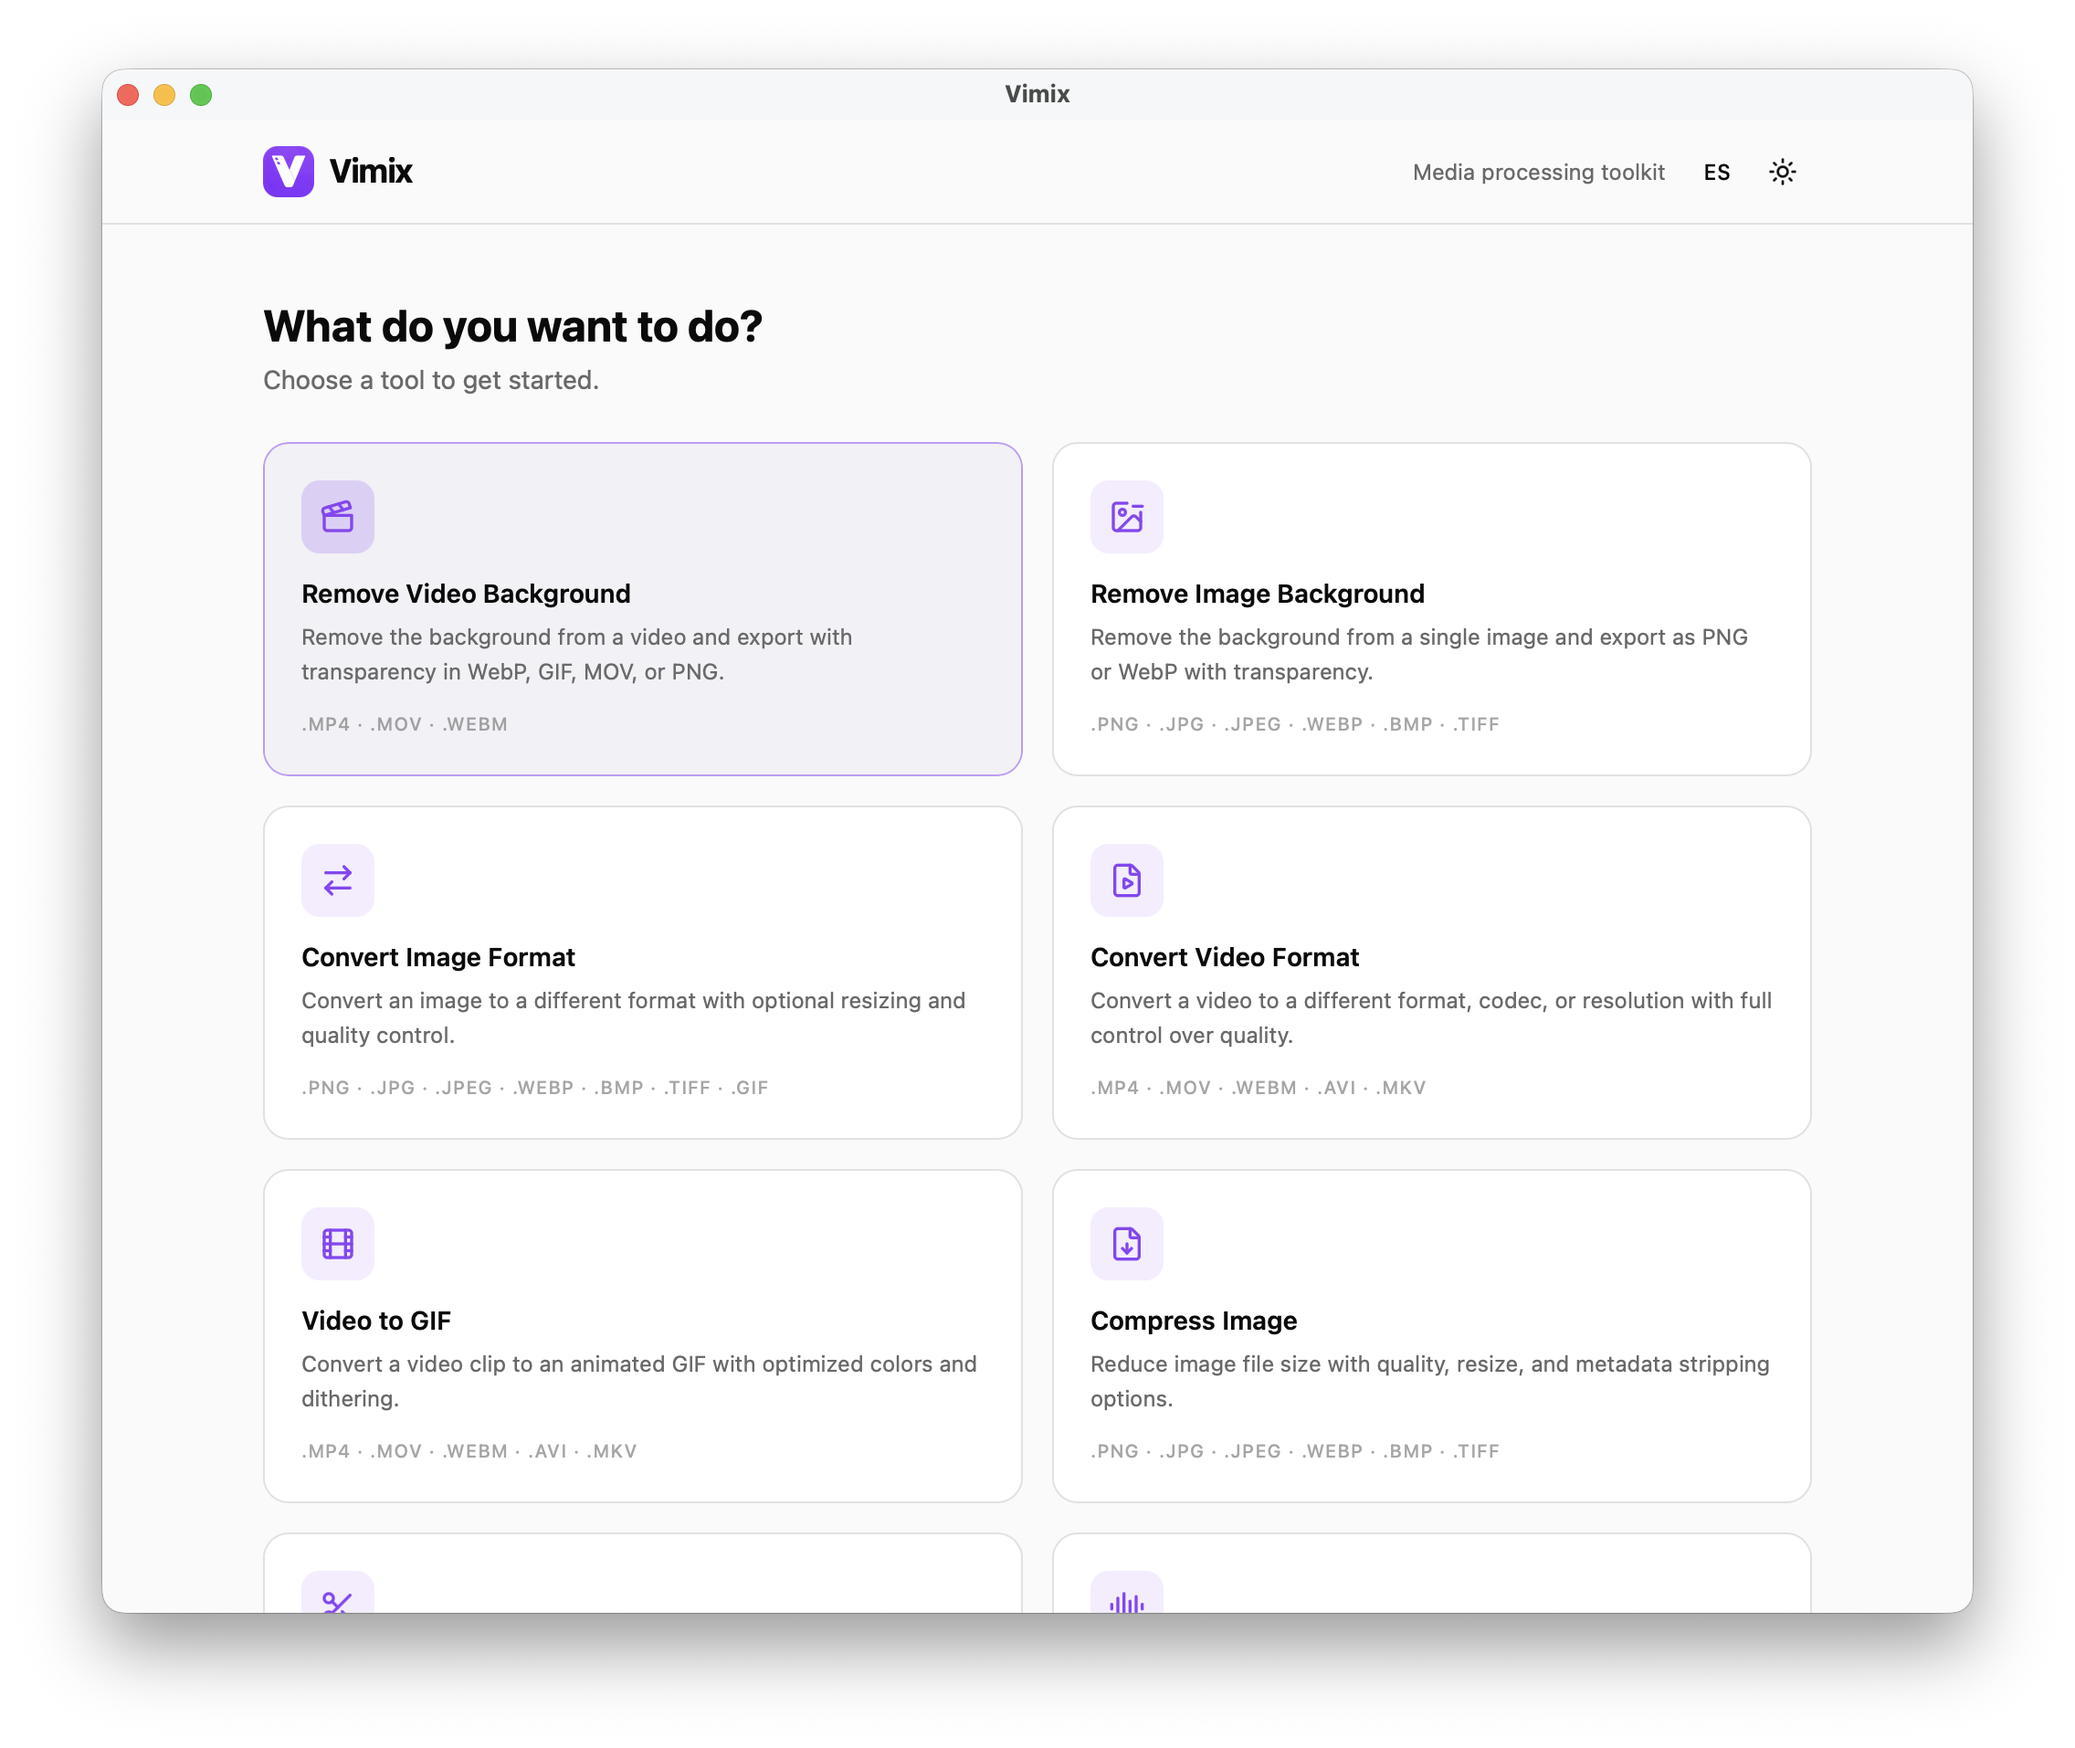
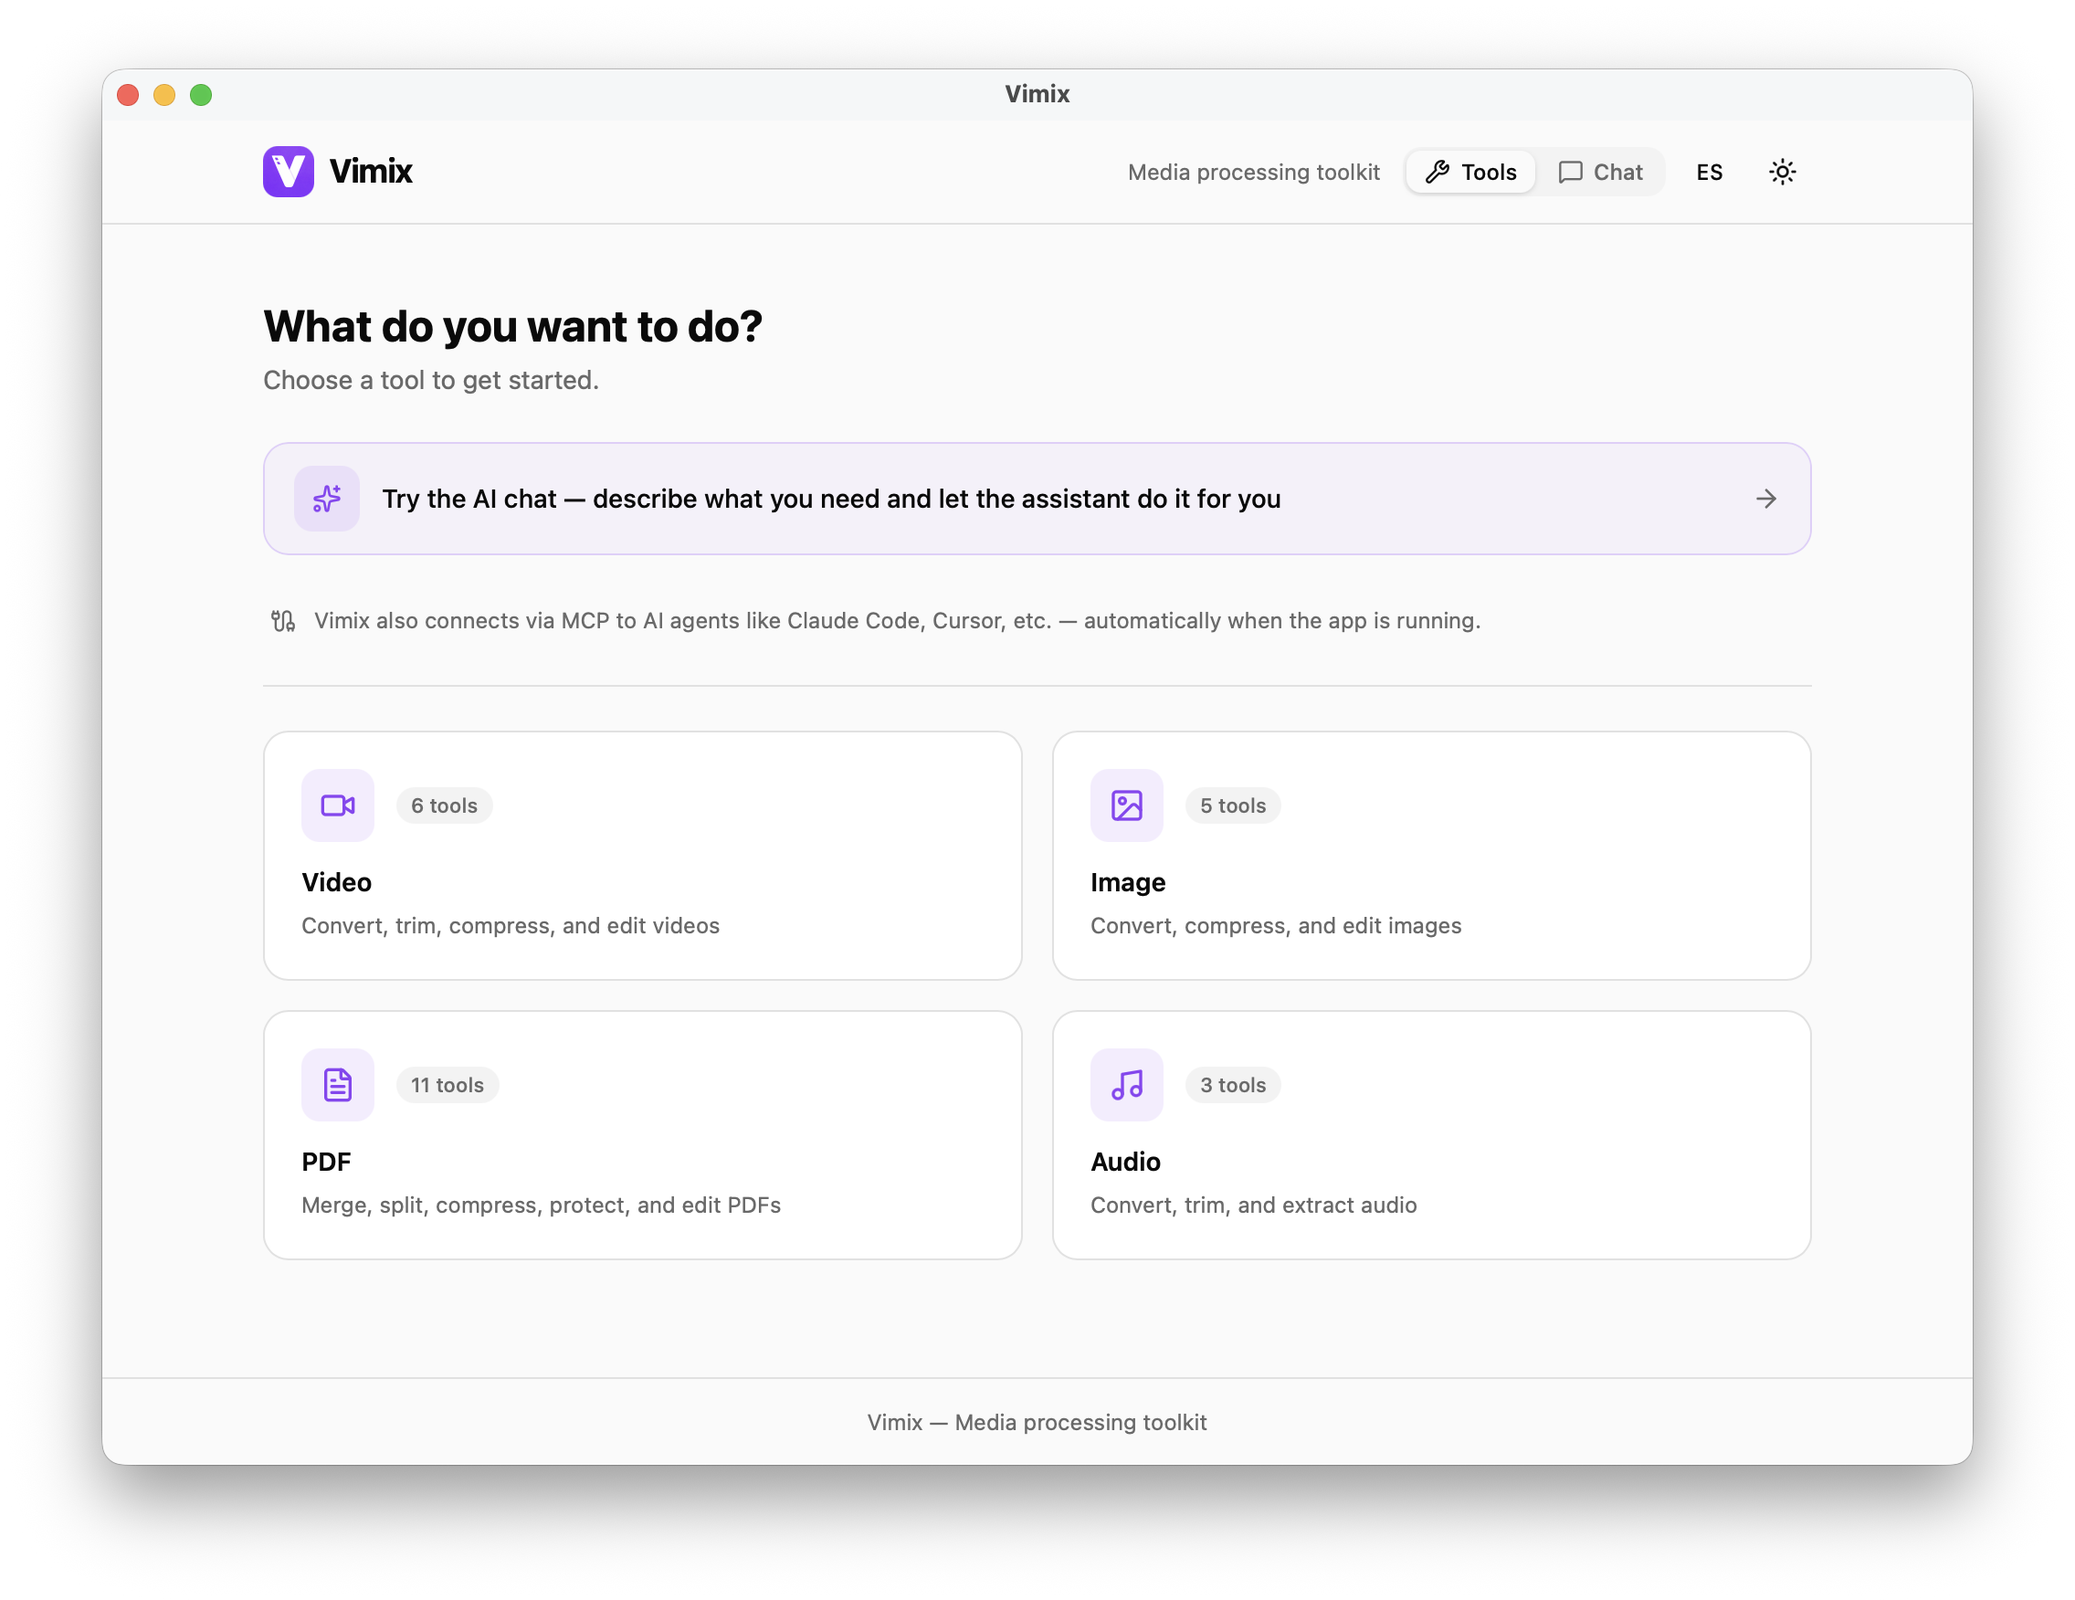
chore: Upload fixed-name release artifacts for macOS and Windows, and update README with a new project description, download links, and screenshots.

diff --git a/README.md b/README.md
@@ -1,6 +1,10 @@
 # Vimix
 
-Local AI-powered media processing toolkit. Remove video backgrounds, convert formats, compress, trim, extract audio, and more — all running on your machine. No cloud, no uploads, everything stays on your computer.
+**Vimix is a free desktop app that lets you process videos, images, PDFs, and audio files directly on your computer — no internet connection needed, no files uploaded anywhere.**
+
+You drop in a file, pick what you want to do (remove background, compress, convert format, trim, extract audio…), and Vimix handles everything locally using AI and open-source tools. There's also a built-in chat where you can just describe what you need in plain language and the AI figures out the rest.
+
+Think of it as having Photoshop's background removal, a video editor, a PDF tool, and an AI assistant — all in one lightweight app, running entirely offline.
 
 <p align="center">
   <img src="screenshot_1.png" alt="Vimix - Tool selection" width="700" />
@@ -10,16 +14,20 @@ Local AI-powered media processing toolkit. Remove video backgrounds, convert for
   <img src="screenshot_2.png" alt="Vimix - Processor options" width="700" />
 </p>
 
-## Download
+<p align="center">
+  <img src="screenshot_3.png" alt="Vimix - AI Chat" width="700" />
+</p>
 
-Download the latest version for your platform:
+## Download
 
 | Platform | Download |
 |----------|----------|
-| macOS (Apple Silicon) | [Vimix.dmg](https://github.com/kike1303/vimix/releases/latest/download/Vimix_aarch64.dmg) |
-| Windows (x64) | [Vimix.msi](https://github.com/kike1303/vimix/releases/latest/download/Vimix_x64-setup.msi) |
+| macOS (Apple Silicon) | [Vimix_aarch64.dmg](https://github.com/kike1303/vimix/releases/latest/download/Vimix_aarch64.dmg) |
+| Windows (x64) | [Vimix_x64-setup.exe](https://github.com/kike1303/vimix/releases/latest/download/Vimix_x64-setup.exe) |
 
 Or browse all releases on the [Releases page](https://github.com/kike1303/vimix/releases).
+
+> **macOS:** open the `.dmg`, drag Vimix to Applications, and launch it. On first open, right-click → Open if macOS warns about an unidentified developer.
 
 ## Features
 
